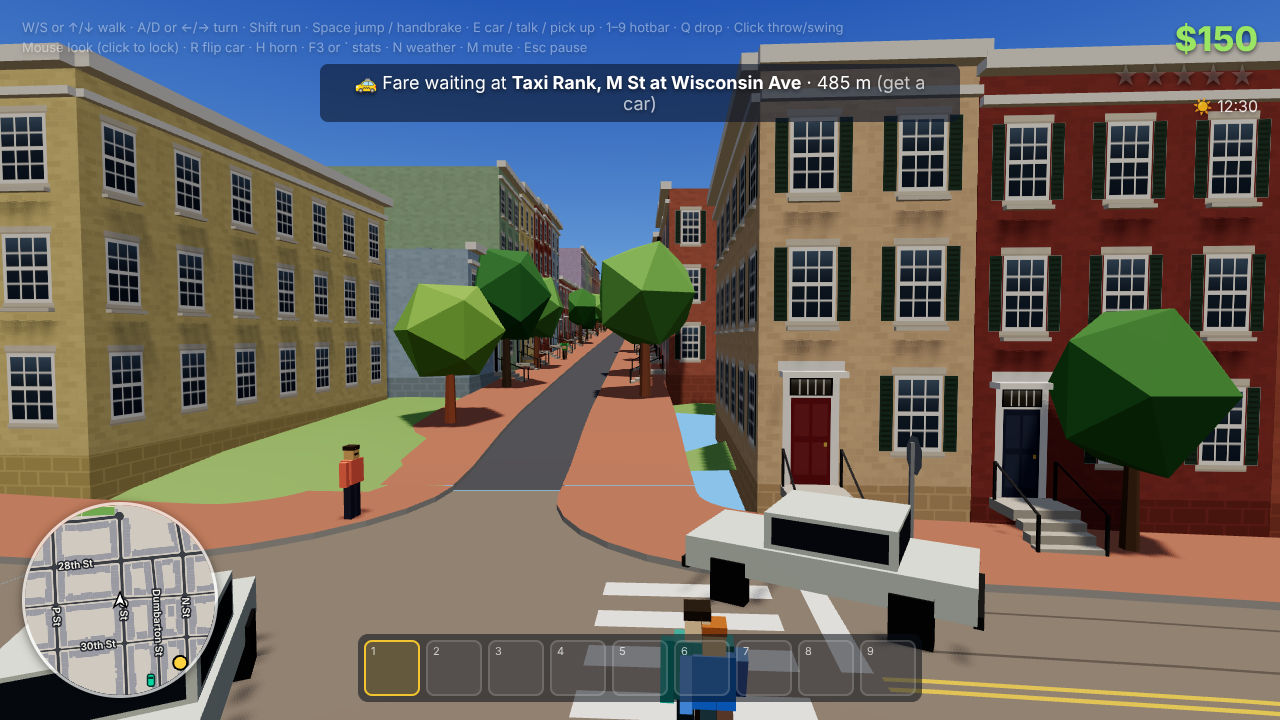
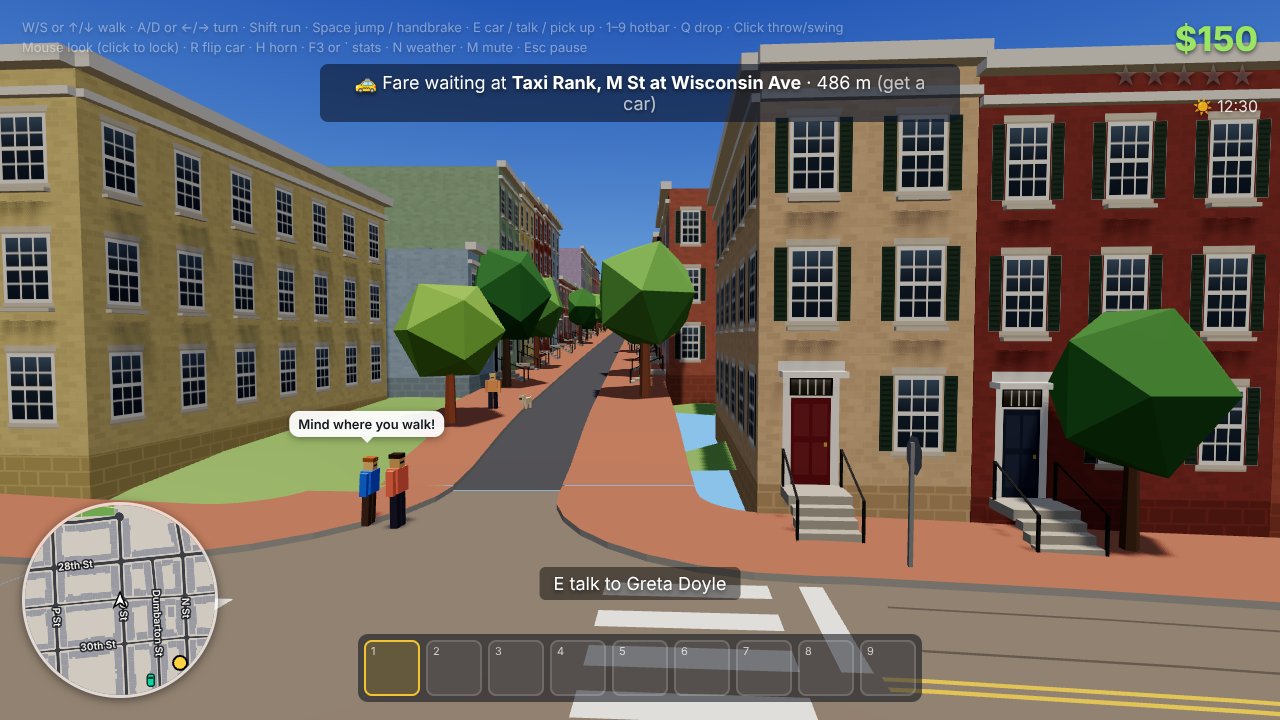
Owners off-stage remember their stolen car; DEVLOG for step C2 (life on Georgetown's streets); final geolife screenshots
Claude-Session: https://claude.ai/code/session_012Y9CQc2geJ2jhDimLjKczQ

diff --git a/src/systems/npcMemory.ts b/src/systems/npcMemory.ts
@@ -70,8 +70,9 @@ export function updateNpcMemory(w: World): void {
       case 'carTheft': {
         const label = w.vehicles[e.carId]?.spec.label.toLowerCase() ?? 'car';
         const owner = e.ownerId >= 0 ? w.peds[e.ownerId] : null;
-        // the owner (if around at all) knows it was you and holds a grudge
-        if (owner && owner.active) {
+        // the owner knows it was you and holds a grudge (also when they are off-stage right now: the crowd near you
+        // follows the map's density, so most owners are elsewhere when their car goes; they find out)
+        if (owner) {
           remember(owner.npc, 'stoleMyCar', e.ownerSaw ? `stole my ${label} right in front of me` : `stole my ${label}`, hour, day);
           adjustRelationship(owner.npc, N.relationshipOnCarTheft);
           owner.npc.mood = Math.max(-1, owner.npc.mood - 0.5);

diff --git a/DEVLOG.md b/DEVLOG.md
@@ -288,3 +288,123 @@ Format: date · what changed · what to test · known issues.
       - **Trees on footpaths:** trees and lamps stand on the footpath centre lines on Dumbarton St and Potomac St, blocking 114 walk links for a person.
       - **Low bridges:** the camera goes inside the deck of the low canal bridges when you walk under them.
     - **Merge note:** merging `m3-geo-art-review` conflicts in `georgetownWorld.ts` (keep both `droppedBuildings` and `audit`; that branch already adds its street-clipped drops to the same set) and in DEVLOG.md.
+
+- **M3 Life on Georgetown's streets (branch `m3-geo-life`, step C2):** crowds that follow the map, parked cars that match the street, three dealerships, taxi fares to named places, a readable minimap and seeded items kept in sane spots. Built on `m3-geo-citymap` (merged in). Everything works on both maps; `?map=grid` stays the default.
+  - **Crowd density from the map** (`src/systems/pedDensity.ts`, numbers in `TUNING.peds.density`):
+    - Every walk link gets a number of people per metre. Sidewalks start from the class of the road beside them; towpath, park paths, waterfront and plazas from their kind. Each shop, cafe, restaurant, bar or market within 40 m adds `perShop`. Each part follows its own day curve: `shops` (lunch rush, then dinner), `homes` (commutes, quiet nights), `waterfront` (evenings) and `outdoor` (early joggers, after-work walks).
+    - Around you, the links within `radius` (90 m) add up to a real-world head count. At lunch that is about 1 person per 8 m of pavement on M St at Wisconsin Ave and 1 per 41 m on 29th St.
+    - The head count is scaled to the quality's `pedBudget`. `fullBudgetAt` is the count that fills the whole budget: 100 on Georgetown (M St at lunch), 24 on the grid, whose places each stand for a row of shops. There are never fewer than `minActive` (4).
+    - People appear and leave out of view to follow the target. Spawn points are picked by the same scores. Walkers who get past `recycleDistance` (100 m, was 230 m) out of view are moved back to a busy spot. People on a busy street often head to a shop nearby (`errandChance`), so the crowd stays where the shops are.
+    - Dog walkers and joggers spawn 8x more on the towpath, 5x on the waterfront and 3x on park paths. Their routes count those links at half length (`WalkRouter.path` takes per-node cost factors), and most of their trips end at a towpath or waterfront spot.
+    - The budgets are unchanged (Low 30, Medium 45, High 60). Georgetown already uses more CPU than the M2 build (below), so there was no room to raise them. Kids still only come out with their parent and stay invulnerable.
+    - F3 has a new line, e.g. `people  target 45 (real 115 in 90 m, budget 45) · active 44 · near 41`.
+  - **Parked cars by street class** (`src/systems/parkedCars.ts`; `TUNING.vehicles.parkedCarsPer100m` by map and street class):
+    - **Georgetown densities, cars per 100 m of kerb:** primary 11 (M St, Wisconsin Ave, K St, Pennsylvania Ave, Canal Rd), secondary 7, tertiary 6, residential 3.5, service 2, parkway 0.
+    - **Car parks:** `lotFill` 0.5; car parks by the river get `waterfrontLotFill` 0.95.
+    - **Kerb spots:** Georgetown's are now every 6.5 m (`map.kerbSpotSpacing`; was 13 m). Each spot says how much kerb it stands for (`ParkingSpot.span`). The grid keeps its old numbers.
+    - **Measured on Georgetown:** 1,957 parked cars, 1,303 at the kerb and 654 in car parks. Per 100 m of kerb: M St 11.0, Wisconsin Ave 10.9, N St 3.6, Prospect St 4.0. 29th St has none: it is one-way with one lane, so it has no parking lane. The three car parks by the river are 90–95% full; the other two are 51% and 67%.
+    - **Far from you:** a parked car is only drawn, as one instance of a shared InstancedMesh within `parkedDrawDistance` (Low 150, Medium 210, High 300 m). Each car type has two meshes: the paint shell, coloured per instance, and the glass, trim, lights and tyres. The car has no physics body.
+    - **Near you:** within `parkedLiveRadius` (26 m), and within 16 m of where your car will be in 1.6 s, a parked car gets a real drivable car from a pool. `parkedPool` holds 10 hatchbacks, 10 sedans and 8 pickups, never more than there are parked cars of that type.
+      - The pooled car is repainted, put exactly where the parked car stands and left asleep.
+      - It is still drawn as the instance until it is driven, dented or broken into; then its own meshes show.
+      - An untouched one goes back to the pool once you are past `parkedReleaseRadius` (45 m), and the parked car keeps the spot it was pushed to.
+      - A parked car within 9 m always gets one, so E works on every parked car. Beyond that, `parkedPromotePerFrame` (3) are handed out per frame, nearest first.
+    - **Your cars and dealership stock** are also drawn as instances while untouched.
+    - **Ownership:** every parked car belongs to a local (locked at `theft.lockedFraction`) or, at `abandonedFraction`, to nobody. Each grown-up among the simulated people owns the parked car nearest their home or work (`theft.ownerHomeRange`). The prompt says "a local's car".
+    - **The owner can show up:** when you take a local's car, there is a `localOwnerNearby` chance (0.35) that the owner is right there. One of the people within 35 m who can see the car becomes the owner, then chases, shouts, calls 999 and remembers you.
+  - **Dealerships** (`economy/dealership.ts`):
+    - **Where:** car dealers come first (the data's `shop=car`, now on `Poi.cat`), then the biggest car park as a used-car lot, then garages, then shops, up to `maxSites` (Georgetown 3, grid 2).
+    - **Showroom:** a dealer or used-car lot shows its cars in a row of car-park bays, with its sign in the next bay. The others show theirs at the kerb.
+    - **Georgetown:**
+      - the car dealer on K St, in its car park;
+      - a used-car lot in the big car park off Water St;
+      - a garage on Pennsylvania Ave, at the kerb.
+      - With seed 1337 they are Long Haul Autos, Gull Point Autos and Wrench Works. Names vary with the seed.
+    - **Fixed:** restocking takes an idle car from the parked-car pool, so the car list no longer grows with every sale. It held at 42 through a sale and a restock.
+    - **Fixed:** the minimap draws the dealership and taxi rank badges on top at a fixed size (8 px and 6 px). They used to be painted into the base image, where they shrank to a pixel or two.
+    - **Fixed:** on the grid, every POI whose name is on a shop sign is now `signed`. A dealership keeps the name painted on its building ("Grease Monkey Garage") instead of adding a second name.
+  - **Taxi, minimap and items:**
+    - **Taxi:** destinations are shops, restaurants, hotels, museums, churches and parks. Homes come up only at `taxi.homeDestShare` (0.15; it was about a third).
+      - The HUD names the place, its street and the nearest cross street, e.g. "Drop Bram at Brick & Basil (M St NW at Thomas Jefferson St NW)".
+      - A fare who asked for a ride in conversation shows as "Name, street".
+      - A fare taken from off-stage at a quiet hour is brought on-stage.
+    - **Minimap street labels:**
+      - drawn with rounded stroke joins (mitred joins drew spikes round the letters);
+      - major streets first;
+      - a label is left out if it would overlap another label or a badge, run past the rim, or repeat the same name within 110 px;
+      - the " NW" is dropped.
+    - **Seeded items** (`scatterItems`):
+      - never inside a building, in the water, or in the carriageway (cones excepted);
+      - only on level ground, so never at the edge of a deck, pier, kerb or stair (`items.waterClearance`, `edgeProbe`, `maxStep`, `wallProbe`);
+      - items on a bridge deck land on the deck;
+      - bags and boxes sit 0.75–0.8 m out from a shop's pavement spot instead of 1.0–1.1 m, because they stuck into walls on Georgetown.
+      - On Georgetown 411 items are placed and 354 spots are skipped. None is in a building, in water or beside a drop.
+  - **Test:** `npm run build`, then `MAP=georgetown node scripts/shot.mjs x geolife` (new) or `node scripts/shot.mjs x <scenario>` on the grid. `parkcheck` (new, any map) reports parked cars by class and the stand-ins near you.
+    - **geolife, final run, crowds:** each place was held at one hour for 40 s of game time (60 s on the towpath). The F3 target and the active count are the whole crowd near you; "in window" counts people within 60 m.
+
+      | | in window | F3 target / active | real head count |
+      |---|---|---|---|
+      | M St at Wisconsin Ave, 12:30 | 21 | 45 / 44 | 115 (1 per 8 m) |
+      | 29th St between N and P, 12:30 | 4 | 13 / 14 | 30 (1 per 41 m) |
+      | M St at night, 02:30 | 5 | 4 / 5 | 4 |
+      | Waterfront, 19:30 | 8 | 12 / 11 | 27 |
+      | Towpath, 07:30 | 3 | 14 / 13 | 31 |
+
+      - M St at lunch is 5.3x busier than 29th St in the window (3.5x by target). Across five runs the window ratio was 3.6–9.
+      - Dog walkers and joggers were a third of the people near you on the towpath (50% in two earlier runs), against 10% on M St.
+    - **geolife, other checks:**
+      - **Parked car hit:** I drove into a parked car on M St at about 50 km/h. Its drivable stand-in was there when my car was 37 m away. It was pushed 18 m and dented, and then showed its own meshes.
+      - **Taxi:** 3 of 3 fares, to a supermarket, an ice cream shop and a bakery, with addresses like "K St NW at 30th St NW".
+      - **Unseen theft** on O St (residential, nobody near): 0 calls, 0 stars, and the owner remembers it.
+      - **Witnessed theft** of a locked car on M St with 4 people on the pavement: a 3.03 s smash, 4 calls, 2 stars. The owner chased, phoned and remembers.
+      - **Dealership:** I bought a hatchback at Long Haul Autos for $900. The minimap showed 3 dealerships and 2 owned cars. The slot restocked out of the pool, with 42 cars before and after.
+      - **Seeded items:** 0 bad.
+      - **Console:** clean.
+      - **Screenshots** (all looked at): `29-life-mst-lunch`, `29-life-29th`, `29-life-towpath`, `29-life-f3`, `29-life-dealer`.
+    - **Georgetown regression scenarios:** world, walk, drive, taxi, police, witness, theft, dealership, crashspikes, geoplay and mapcheck exit 0 with a clean console.
+      - taxi: 3 of 3 fares, to a pharmacy, a restaurant and a gallery.
+      - police: 0 stars, because no witness called (as in C0).
+      - dealership: 3 sites, a purchase, 2 owned cars on the minimap.
+      - mapcheck: pass, with 30 choices, 0 jumps, 1.71 m off lane, 20/20 walks and 0 height mismatches. There are now 3,920 parking spots.
+      - seed 123: 2,001 parked cars (1,957 with the default seed) on the same map.
+      - theft: the first run failed in the scenario. At 15:00 fewer than four people were out near the car it picked, and the scenario only looked at people already out. It now brings witnesses on-stage. Rerun: unseen 0 calls / 0 stars; on M St 3 calls, 1 star, owner memory.
+    - **Owner memory fix:** an owner who is off-stage now also remembers their stolen car (`npcMemory.ts`). With the crowd following the density, most owners are elsewhere when their car goes, and before this they never found out.
+    - **Grid:** life, crowd, witness, theft, dealership, taxi, gate2, crashspikes and mapcheck exit 0 with a clean console.
+      - crowd: 41 active at the start, the shove works, 44–45 on High.
+      - gate2: 30 active on Low, 59 on High.
+      - theft: unseen 0 stars; witnessed 4–5 calls, 2–3 stars, owner memory.
+      - mapcheck: pass, 0.47 m off lane.
+      - Theft, dealership, taxi, witness and crowd were run again after the last parked-car change, and theft after the owner-memory fix.
+      - `23-dealership` shows that the shop sign and the showroom sign now match.
+    - **Frames over 33 ms** (crashspikes, unthrottled, 3 interleaved rounds against the pre-C2 build 75c14a5): Georgetown 2, 1 and 3 (pre-C2: 4, 3 and 0), with p99 10.6–11.4 ms (pre-C2 9.9–19.2). Grid 2, 0 and 0 (pre-C2: 2, 1 and 0). Spikes of 50–190 ms hit both builds alike, in physics, peds, weather, player or traffic, so they are the busy machine, not one system.
+  - **Performance against the M2 build (529a13c):** 4x CPU throttle, 3 interleaved rounds, on foot at the spawn at 12:30 (the crowd at its lunchtime target). CPU per frame is without rendering; ranges are the 3 runs' medians. The machine was shared and busy (load ~8 on 4 cores), so frames over 33 ms showed up in every build, M2 included.
+
+    | | M2, Low | Georgetown, Low | M2, Medium | Georgetown, Medium | this branch's grid, Medium |
+    |---|---|---|---|---|---|
+    | CPU per frame | 4.3–5.4 ms | 5.3–6.8 ms | 1.2–5.4 ms | 6.0–8.0 ms | 3.3–4.3 ms |
+    | physics | 1.7–2.6 | 3.1–4.3 | 2.0–2.6 | 3.5–5.2 | 1.5–2.3 |
+    | people (`peds`) | 0.22–0.46 (30) | 0.29–0.36 (26) | 0.39–0.74 (45) | 0.40–0.57 (40) | 0.33–0.45 (44) |
+    | parked cars (`parked`) | — | 0.07–0.09 | — | 0.11–0.16 | 0.03–0.05 |
+    | garbage per frame | 46–47 KB | 49–55 KB | 47–52 KB | 56–60 KB | 40–42 KB |
+    | draw calls | 85–98 | 98–105 | 134–141 | 170–172 | 116–118 |
+    | triangles | 133k | 483k | 188k | 1.0M | 179k |
+    | heap | 45–77 MB | 177–199 MB | 43–77 MB | 153–161 MB | 48–85 MB |
+
+    - **Draw calls:** the parked cars brought Georgetown from ~640 (the C0 review's figure, with 42 parked cars) to ~170, with 1,957 parked cars. That is now close to M2 (~140).
+    - **CPU:** Georgetown still uses about 1.3–1.5x M2's CPU per frame. The gap is physics (the world's ~10,800 static colliders), not the crowd or the parked cars.
+    - **The crowd's cost:** the same pages with every pedestrian taken off.
+      - The `peds` section drops by 0.2–0.5 ms at 4x.
+      - Unthrottled, the frame median drops by about 0.1 ms (1.4 to 1.3 ms) and `peds` from 0.14–0.36 ms to 0.03–0.09 ms.
+      - It is 12 draw calls (170 to 158).
+    - **fps:** software GL can't time the GPU, so there is no fps figure. With 5x M2's triangles and more CPU, Georgetown very likely still runs below M2 on the same quality.
+  - **Known issues:**
+    - **The crowd is the budget:** the computed density on M St at lunch is real-world (1 per 8 m), but what you see is the quality budget (45 at Medium) spread over the 90 m around you. M St reads busy and 29th St quiet, but at real-world density M St would be much fuller.
+    - **Window counts are noisy:** the M St / 29th St ratio ranged from 3.6 to 9 across five runs, and the towpath count from 0 to 4.
+    - **Drawn-only parked cars have no physics:** traffic, police or a thrown item further than 26 m from you (and outside the 16 m round the point 1.6 s ahead of your car) passes through them. Traffic keeps out of the parking lanes, so this mostly matters for police in a direct chase.
+    - **Touched stand-ins stay full cars:** a driven, dented or broken-into stand-in keeps its own meshes (~15 draw calls) and never goes back to the pool. The pool grows if it must; it never did in the tests.
+    - **Small drop on waking:** a drawn parked car is pitched to the slope of its street, but its stand-in sleeps at its spawn height until something wakes it. It can then settle a few centimetres.
+    - **The used-car lot counts as a waterfront car park,** so the rest of that car park is 90% full.
+    - **The Long Haul Autos sign** stands on the grass at the end of its car park.
+    - **Fewer seeded items on Georgetown:** 354 spots are skipped there, so Georgetown has only 48 bottles and cans of the 70 litter items.
+    - **The grid follows the clock too:** its crowd now follows the day curves, so it is quiet at night (the M2 grid kept its full budget all day).
+    - **Most taxi pickups are ranks:** only someone who asks for a ride is picked up elsewhere.
